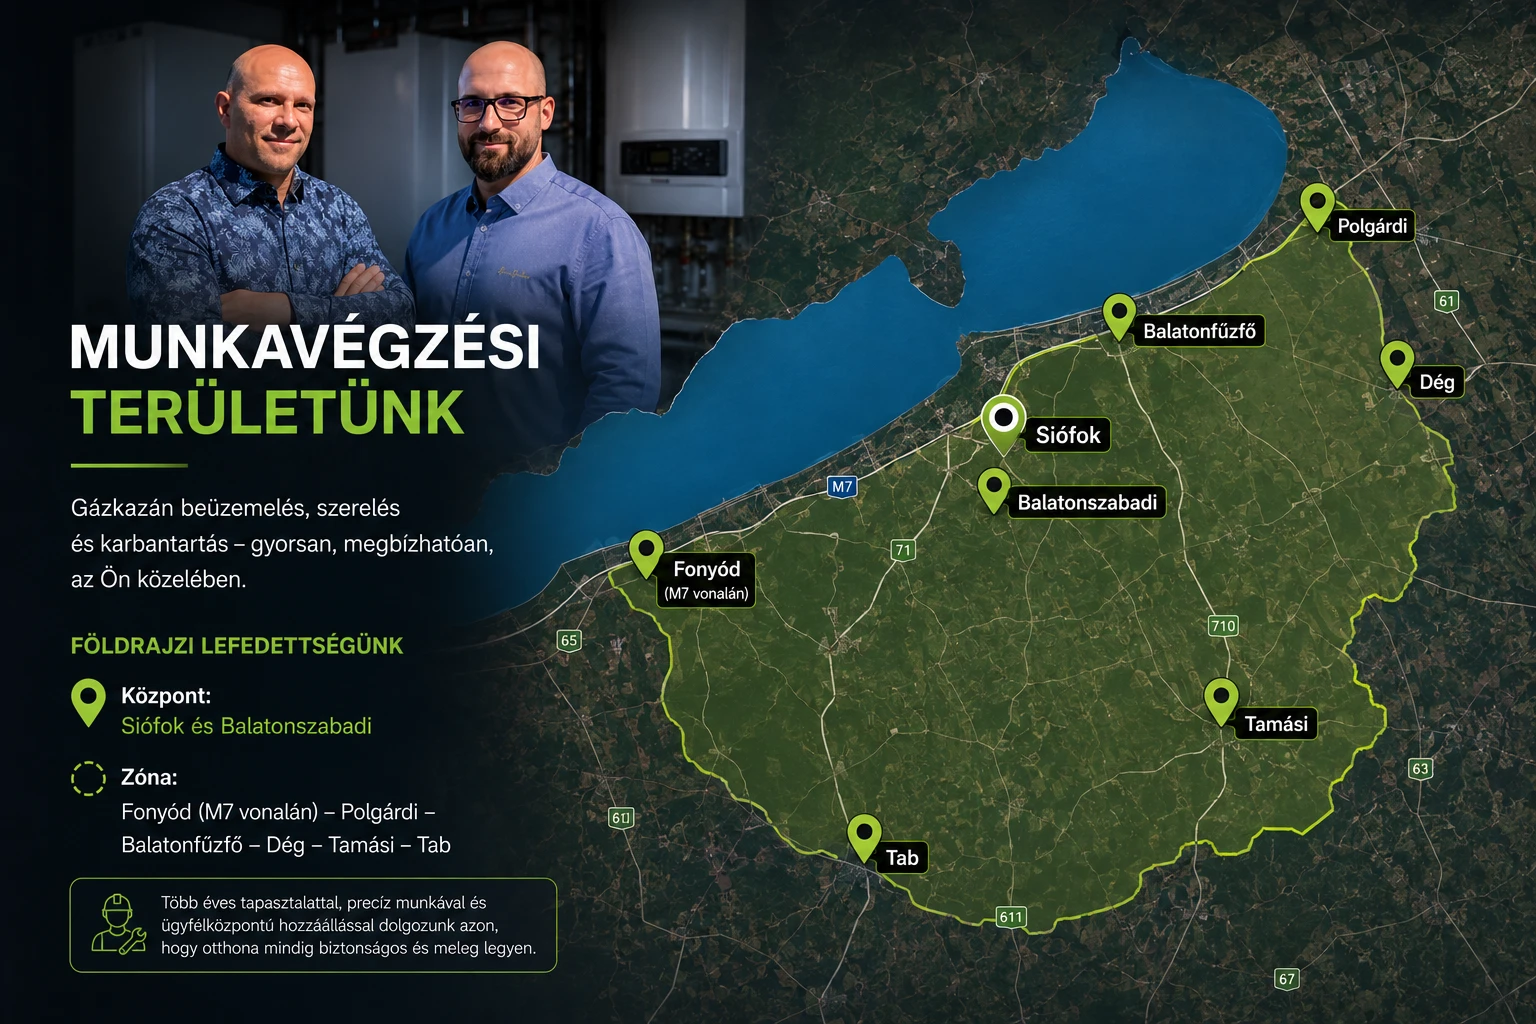
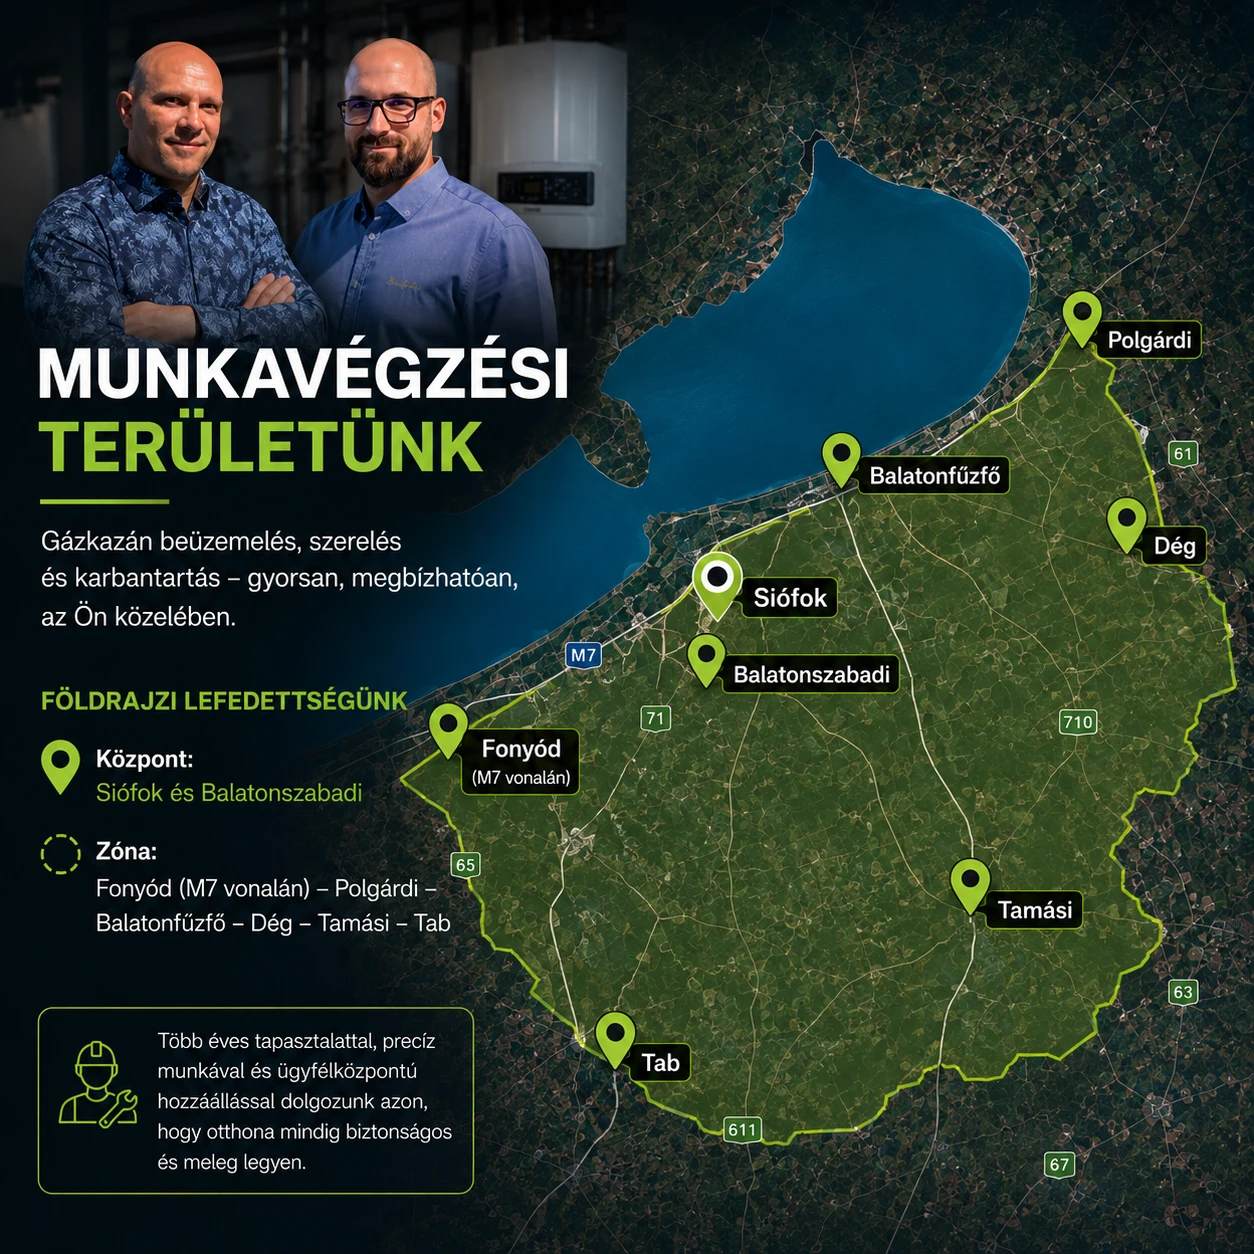
features

diff --git a/nanogas/src/pages/markaszerviz.html b/nanogas/src/pages/markaszerviz.html
@@ -27,42 +27,42 @@
     <div class="bento bento--sm">
       <article class="service-card service-card--surface reveal">
         <div>
-          <span class="brand-mark" aria-hidden="true">BO</span>
+          <a class="brand-mark brand-mark--logo" href="https://www.bosch-thermotechnology.com" target="_blank" rel="noopener noreferrer" aria-label="Bosch hivatalos oldala"><img src="./images/logos/bosch.webp" alt="Bosch logó" width="64" height="64" loading="lazy" decoding="async" /></a>
           <h3>Bosch</h3>
           <p>Hivatalos márkaszerviz, gyártó által előírt módon.</p>
         </div>
       </article>
       <article class="service-card service-card--surface reveal">
         <div>
-          <span class="brand-mark" aria-hidden="true">JU</span>
+          <a class="brand-mark brand-mark--logo" href="https://www.junkers.com" target="_blank" rel="noopener noreferrer" aria-label="Junkers hivatalos oldala"><img src="./images/logos/junkers.webp" alt="Junkers logó" width="64" height="64" loading="lazy" decoding="async" /></a>
           <h3>Junkers</h3>
           <p>Hivatalos márkaszerviz, gyártó által előírt módon.</p>
         </div>
       </article>
       <article class="service-card service-card--surface reveal">
         <div>
-          <span class="brand-mark" aria-hidden="true">BU</span>
+          <a class="brand-mark brand-mark--logo" href="https://www.buderus.com" target="_blank" rel="noopener noreferrer" aria-label="Buderus hivatalos oldala"><img src="./images/logos/buderus.webp" alt="Buderus logó" width="64" height="64" loading="lazy" decoding="async" /></a>
           <h3>Buderus</h3>
           <p>Hivatalos márkaszerviz, gyártó által előírt módon.</p>
         </div>
       </article>
       <article class="service-card service-card--surface reveal">
         <div>
-          <span class="brand-mark" aria-hidden="true">AR</span>
+          <a class="brand-mark brand-mark--logo" href="https://www.ariston.com" target="_blank" rel="noopener noreferrer" aria-label="Ariston hivatalos oldala"><img src="./images/logos/ariston.webp" alt="Ariston logó" width="64" height="64" loading="lazy" decoding="async" /></a>
           <h3>Ariston</h3>
           <p>Hivatalos márkaszerviz, gyártó által előírt módon.</p>
         </div>
       </article>
       <article class="service-card service-card--surface reveal">
         <div>
-          <span class="brand-mark" aria-hidden="true">VI</span>
+          <a class="brand-mark brand-mark--logo" href="https://www.viessmann.com" target="_blank" rel="noopener noreferrer" aria-label="Viessmann hivatalos oldala"><img src="./images/logos/viessmann.webp" alt="Viessmann logó" width="64" height="64" loading="lazy" decoding="async" /></a>
           <h3>Viessmann</h3>
           <p>Hivatalos márkaszerviz, gyártó által előírt módon.</p>
         </div>
       </article>
       <article class="service-card service-card--surface reveal">
         <div>
-          <span class="brand-mark" aria-hidden="true">BA</span>
+          <a class="brand-mark brand-mark--logo" href="https://www.baxi.com" target="_blank" rel="noopener noreferrer" aria-label="Baxi hivatalos oldala"><img src="./images/logos/baxi.webp" alt="Baxi logó" width="64" height="64" loading="lazy" decoding="async" /></a>
           <h3>Baxi</h3>
           <p>Hivatalos márkaszerviz, gyártó által előírt módon.</p>
         </div>

diff --git a/nanogas/src/style.css b/nanogas/src/style.css
@@ -382,6 +382,16 @@ p { margin: 0; }
   .booking-fallback .field-row { grid-template-columns: 1fr 1fr; }
 }
 .booking-fallback label { font-weight: 600; font-size: 0.92rem; }
+.booking-fallback .required-note { color: var(--ink-faint); font-size: 0.82rem; margin-top: -0.3rem; }
+.booking-fallback .required-mark { color: var(--accent-strong); font-weight: 700; }
+/* :has() re-evaluates live, so this also tracks the JS-toggled `required`
+   on the conditional (data-require-for) fields — no extra markup needed. */
+.booking-fallback .field > label:has(+ input:required)::after,
+.booking-fallback .field > label:has(+ select:required)::after,
+.booking-fallback .field > label:has(+ textarea:required)::after {
+  content: " *";
+  color: var(--accent-strong);
+}
 .booking-fallback input,
 .booking-fallback textarea,
 .booking-fallback select {
@@ -544,20 +554,30 @@ p { margin: 0; }
 /* Brand monogram badge: replaces a repeated generic icon on brand cards
    so each card reads as its own brand, not a copy-pasted placeholder. */
 .brand-mark {
-  display: inline-flex;
+  display: flex;
   align-items: center;
   justify-content: center;
-  width: 2.75rem;
-  height: 2.75rem;
+  width: 4rem;
+  height: 4rem;
   border-radius: 999px;
   background: var(--accent-strong);
   color: #fff;
   font-family: var(--font-display);
   font-weight: 700;
-  font-size: 0.98rem;
+  font-size: 1.15rem;
   letter-spacing: -0.01em;
-  margin-bottom: 0.8rem;
+  margin: 0 auto 0.8rem;
 }
+/* Real brand logo variant: light badge so the logo's own colors read cleanly. */
+.brand-mark--logo {
+  background: var(--surface);
+  border: 1px solid var(--line);
+  padding: 0.7rem;
+}
+.brand-mark--logo img { width: 100%; height: 100%; object-fit: contain; border-radius: 0; }
+a.brand-mark--logo { transition: border-color 0.18s ease, transform 0.18s cubic-bezier(0.16, 1, 0.3, 1); }
+a.brand-mark--logo:hover { border-color: var(--accent); transform: translateY(-2px); }
+.service-card:has(.brand-mark) h3 { text-align: center; }
 .footer-bottom { display: flex; flex-wrap: wrap; justify-content: space-between; gap: 0.75rem; margin-top: 2.25rem; padding-top: 1.5rem; border-top: 1px solid var(--line); color: var(--ink-faint); font-size: 0.85rem; }
 
 /* Subpage hero (service pages) */

diff --git a/nanogas/src/pages/index.html b/nanogas/src/pages/index.html
@@ -301,6 +301,7 @@
       </div>
       <form class="booking-fallback" id="booking-form" action="{{FORMSPREE_ACTION}}" method="POST" style="margin-top:1.5rem;">
         <!-- TODO: a Formspree form ID a site.config.json "formspreeFormId" mezőjében cserélhető éles adatra -->
+        <p class="required-note">A <span class="required-mark">*</span>-gal jelölt mezők kitöltése kötelező.</p>
         <div class="field">
           <label for="inquiry-type">Milyen ügyben keresel?</label>
           <select id="inquiry-type" name="inquiry-type">
